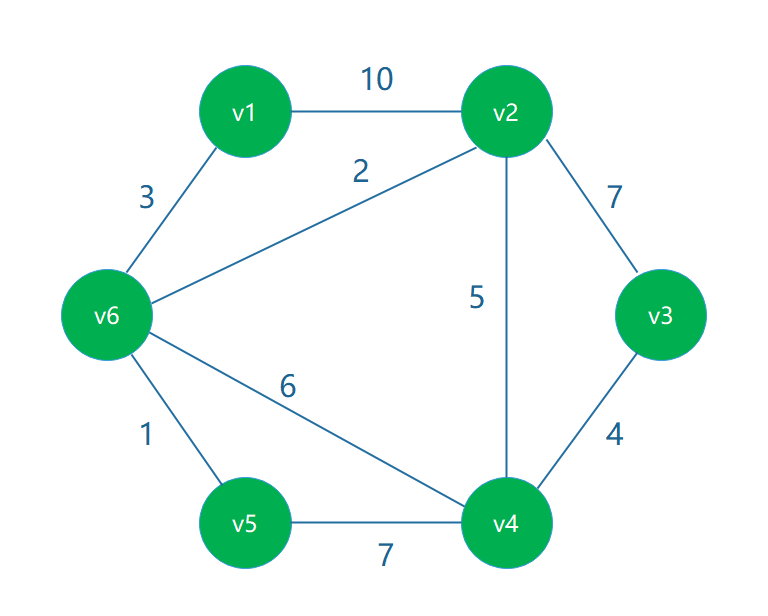
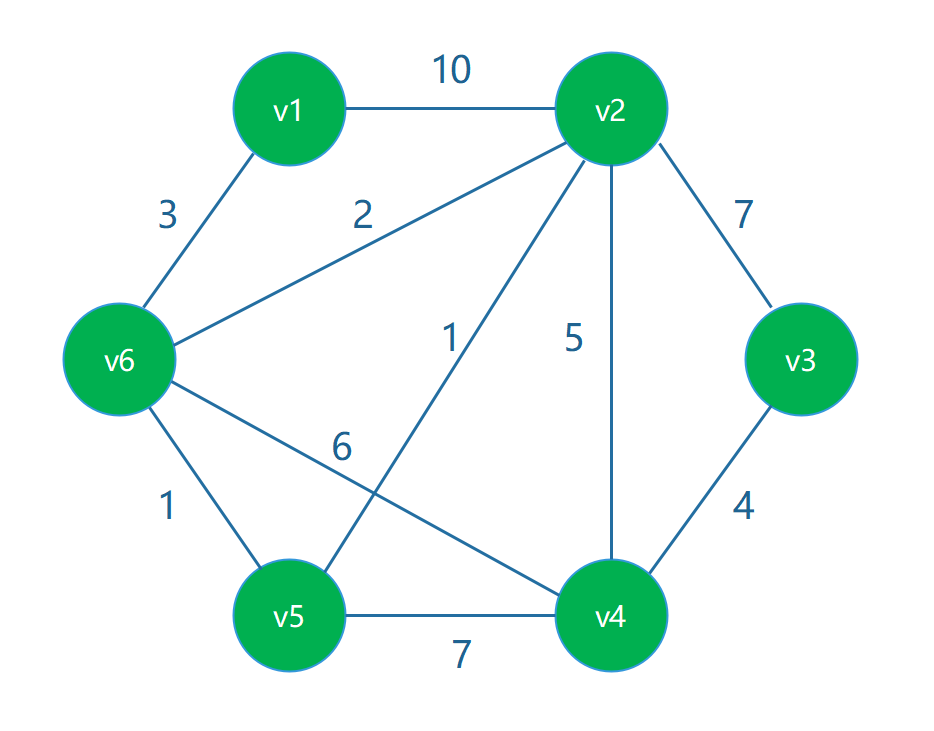
补充包含边和排斥边的策略

diff --git a/dijkstra/src/main/java/com/github/yinzhou/dijkstra/algo/DijkstraAlgorithm.java b/dijkstra/src/main/java/com/github/yinzhou/dijkstra/algo/DijkstraAlgorithm.java
@@ -70,7 +70,7 @@ public class DijkstraAlgorithm {
         completed.add(source);
 
         for (Edge neighbor : graph.getNeighbors(source)) {
-            Node adjacent = graph.getAdjacent(neighbor, source);
+            Node adjacent = graph.getAdjacentNode(neighbor, source);
             if (adjacent == null) {
                 continue;
             }
@@ -94,18 +94,18 @@ public class DijkstraAlgorithm {
             // 下一跳: 计算邻居的最短路径
             int distance = distances.get(current);
             for (Edge neighbor : graph.getNeighbors(current)) {
-                Node adjacent = graph.getAdjacent(neighbor, current);
-                if (completed.contains(adjacent)) {
+                Node node = graph.getAdjacentNode(neighbor, current);
+                if (node == null || completed.contains(node)) {
                     continue;
                 }
 
-                int currentDist = distances.get(adjacent);
+                int currentDist = distances.get(node);
                 int newDist = distance + neighbor.getWeight();
 
                 if (newDist < currentDist) {
-                    distances.put(adjacent, newDist);
-                    predecessors.put(adjacent, current);
-                    inProcess.add(adjacent);
+                    distances.put(node, newDist);
+                    predecessors.put(node, current);
+                    inProcess.add(node);
                 }
             }
         }
@@ -113,15 +113,14 @@ public class DijkstraAlgorithm {
         graph.setSolved(true);
     }
 
+    // 无策略
     public Solution runAlgo() {
         long start = System.currentTimeMillis();
         this.run();
-        List<Node> shortestPath = getDestShortestPath();
-        Integer shortestDist = getDestinationDistance();
-        return new Solution(shortestPath, shortestDist, System.currentTimeMillis() - start);
+        return new Solution(getDestShortestPath(), getDestinationDistance(), System.currentTimeMillis() - start);
     }
 
-    // 包含策略: 使用分段计算方法解决包含策略。
+    // 带包含策略: 使用分段计算方法解决包含策略。
     public Solution runWithIncludePolicy(List<Node> includes, Node dest) {
         List<Node> shortestPath = new ArrayList<>();
         Integer shortestDist = 0;
@@ -138,13 +137,24 @@ public class DijkstraAlgorithm {
         return new Solution(shortestPath, shortestDist, System.currentTimeMillis() - start);
     }
 
-    public Solution runWithIncludeAndExcludePolicy(List<Node> includes, List<Node> excludes, Node dest) {
+    // 带包含排斥策略, 包含要注意排序，外面排好序传入
+    public Solution runWithIncludeAndExcludePolicy(List<Node> includes,
+                                                   List<Edge> includeEdges,
+                                                   List<Node> excludes,
+                                                   List<Edge> excludeEdges,
+                                                   Node dest) {
+        Node originSource = graph.getSource();
         Set<Edge> originExcludeEdges = new HashSet<>();
         for (Node exclude : excludes) {
             Set<Edge> neighbors = graph.getNeighbors(exclude);
             neighbors.forEach(edge -> edge.setWeight(BIG_NUMBER));
             originExcludeEdges.addAll(neighbors);
         }
+        includeEdges.forEach(edge -> edge.setWeight(0));
+        originExcludeEdges.addAll(includeEdges);
+        excludeEdges.forEach(edge -> edge.setWeight(BIG_NUMBER));
+        originExcludeEdges.addAll(excludeEdges);
+
         List<Node> shortestPath = new ArrayList<>();
         Integer shortestDist = 0;
         Node preInclude = null;
@@ -157,6 +167,8 @@ public class DijkstraAlgorithm {
         }
         // 计算最后一段
         shortestDist += calculateSegment(dest, preInclude, shortestPath, originExcludeEdges);
+        // 还原源节点(非必要)
+        graph.setSource(originSource);
         return new Solution(shortestPath, shortestDist, System.currentTimeMillis() - start);
     }
 
@@ -167,7 +179,7 @@ public class DijkstraAlgorithm {
         List<Node> needExcludes = shortestPath.stream()
             .filter(exclude -> !Objects.equals(exclude, graph.getSource()))
             .collect(Collectors.toList());
-        runWithExcludePolicy(needExcludes, dest, excludeEdges);
+        runWithExcludePolicy(needExcludes, excludeEdges);
         // 拼接路径
         List<Node> currentSegmentSPath = getDestShortestPath();
         if (preInclude != null) {
@@ -178,21 +190,20 @@ public class DijkstraAlgorithm {
         return getDestinationDistance();
     }
 
-    // 包含：分段计算。 排斥：将边的权重置为无穷大
-    public void runWithExcludePolicy(List<Node> excludes, Node dest, Set<Edge> excludeEdges) {
+    // 带排斥策略：将边的权重置为无穷大,计算完成后需要还原权重
+    public void runWithExcludePolicy(List<Node> excludeNodes, Set<Edge> excludeEdges) {
         // 将排斥的边权重置为"非常大", 后续统一计算最短路径所以要恢复权重
         Map<Node, Set<Edge>> originalEdges = new HashMap<>();
-        for (Node exclude : excludes) {
+        for (Node exclude : excludeNodes) {
             Set<Edge> neighbors = graph.getNeighbors(exclude);
             originalEdges.put(exclude, neighbors);
             neighbors.forEach(edge -> edge.setWeight(BIG_NUMBER));
         }
-        graph.setDestination(dest);
 
         this.run();
 
         // 恢复排除策略前的边权值, 如果是初始化排斥边则不恢复
-        for (Node exclude : excludes) {
+        for (Node exclude : excludeNodes) {
             Set<Edge> neighbors = originalEdges.get(exclude);
             neighbors.forEach(edge -> {
                 if (!excludeEdges.contains(edge)) {

diff --git a/dijkstra/src/test/java/com/github/yinzhou/dijkstra/algo/DijkstraAlgorithmTest.java b/dijkstra/src/test/java/com/github/yinzhou/dijkstra/algo/DijkstraAlgorithmTest.java
@@ -8,6 +8,8 @@ import com.github.yinzhou.dijkstra.models.Edge;
 import com.github.yinzhou.dijkstra.models.Node;
 import com.github.yinzhou.dijkstra.models.Solution;
 import java.util.Arrays;
+import java.util.Collections;
+import java.util.List;
 import org.junit.Before;
 import org.junit.Test;
 
@@ -30,10 +32,52 @@ public class DijkstraAlgorithmTest {
             Solution solution = dijkstraAlgorithm.runWithIncludeAndExcludePolicy(
                 Arrays.asList(graph.getNodes().stream()
                     .filter(node -> node.getNodeId().equals("v5")).findFirst().get()),
+                Collections.emptyList(),
                 Arrays.asList(graph.getNodes().stream()
                     .filter(node -> node.getNodeId().equals("v4")).findFirst().get()),
+                Collections.emptyList(),
                 graph.getDestination());
             System.out.println(solution);
+
+            Solution solution2 = dijkstraAlgorithm.runWithIncludeAndExcludePolicy(
+                Arrays.asList(graph.getNodes().stream()
+                    .filter(node -> node.getNodeId().equals("v5")).findFirst().get()),
+                Collections.emptyList(),
+                Collections.emptyList(),
+                Arrays.asList(graph.getEdges().stream()
+                    .filter(edge -> edge.getEndpoint1().getNodeId().equals("v6")
+                        && edge.getEndpoint2().getNodeId().equals("v5"))
+                    .findFirst().get()),
+                graph.getDestination());
+            System.out.println(solution2);
+        } catch (IllegalStateException ise) {
+            ise.printStackTrace();
+        }
+    }
+
+    @Test
+    public void testUndirectedGraph2() {
+        Graph graph = new Graph();
+        initUndirectedGraph(graph);
+        graph.setSource(graph.getNodes().stream()
+            .filter(node -> node.getNodeId().equals("v1")).findFirst().get());
+        graph.setDestination(graph.getNodes().stream()
+            .filter(node -> node.getNodeId().equals("v3")).findFirst().get());
+        DijkstraAlgorithm dijkstraAlgorithm = new DijkstraAlgorithm(graph);
+        try {
+            List<Node> includeNodes = Arrays.asList(graph.getNodes().stream()
+                .filter(node -> node.getNodeId().equals("v5")).findFirst().get());
+            List<Edge> excludeEdges = Arrays.asList(graph.getEdges().stream()
+                .filter(edge -> edge.getEndpoint1().getNodeId().equals("v6")
+                    && edge.getEndpoint2().getNodeId().equals("v5"))
+                .findFirst().get());
+            Solution solution2 = dijkstraAlgorithm.runWithIncludeAndExcludePolicy(
+                includeNodes,
+                Collections.emptyList(),
+                Collections.emptyList(),
+                excludeEdges,
+                graph.getDestination());
+            System.out.println(solution2);
         } catch (IllegalStateException ise) {
             ise.printStackTrace();
         }
@@ -72,25 +116,25 @@ public class DijkstraAlgorithmTest {
         graph.addNode(v5);
         graph.addNode(v6);
         Edge edge16 = new Edge(v1, v6);
-        edge16.setWeightFirst(2);
+        edge16.setWeightFirst(3);
         Edge edge12 = new Edge(v1, v2);
-        edge12.setWeightFirst(4);
+        edge12.setWeightFirst(10);
         Edge edge26 = new Edge(v2, v6);
-        edge26.setWeightFirst(3);
+        edge26.setWeightFirst(2);
         Edge edge65 = new Edge(v6, v5);
-        edge65.setWeightFirst(3);
+        edge65.setWeightFirst(1);
         Edge edge25 = new Edge(v2, v5);
         edge25.setWeightFirst(1);
         Edge edge64 = new Edge(v6, v4);
         edge64.setWeightFirst(6);
         Edge edge24 = new Edge(v2, v4);
-        edge24.setWeightFirst(1);
+        edge24.setWeightFirst(5);
         Edge edge54 = new Edge(v5, v4);
-        edge54.setWeightFirst(5);
+        edge54.setWeightFirst(7);
         Edge edge23 = new Edge(v2, v3);
-        edge23.setWeightFirst(6);
+        edge23.setWeightFirst(7);
         Edge edge43 = new Edge(v4, v3);
-        edge43.setWeightFirst(3);
+        edge43.setWeightFirst(4);
         graph.addEdge(edge16);
         graph.addEdge(edge12);
         graph.addEdge(edge26);

diff --git a/dijkstra/src/main/java/com/github/yinzhou/dijkstra/graph/Graph.java b/dijkstra/src/main/java/com/github/yinzhou/dijkstra/graph/Graph.java
@@ -6,6 +6,7 @@ import java.util.ArrayList;
 import java.util.HashSet;
 import java.util.List;
 import java.util.Set;
+import java.util.stream.Collectors;
 import lombok.Data;
 
 @Data
@@ -21,25 +22,21 @@ public class Graph {
 
     public boolean isNodeReachable(Node node) {
         for (Edge edge : edges) {
-            if (node == edge.getEndpoint1() || node == edge.getEndpoint2())
+            if (node == edge.getEndpoint1() || node == edge.getEndpoint2()) {
                 return true;
+            }
         }
         return false;
     }
 
     public Set<Edge> getNeighbors(Node node) {
-        Set<Edge> neighbors = new HashSet<>();
-
-        for (Edge edge : getEdges()) {
-            // 一个图的node指针是唯一的，这里可以使用==，也可以使用equals.
-            if (edge.getEndpoint1() == node || edge.getEndpoint2() == node)
-                neighbors.add(edge);
-        }
-
-        return neighbors;
+        // 一个图的node指针是唯一的，这里可以使用==，也可以使用equals.
+        return getEdges().stream()
+            .filter(edge -> edge.getEndpoint1() == node || edge.getEndpoint2() == node)
+            .collect(Collectors.toSet());
     }
 
-    public Node getAdjacent(Edge edge, Node node) {
+    public Node getAdjacentNode(Edge edge, Node node) {
         if (edge.getEndpoint1() != node && edge.getEndpoint2() != node) {
             return null;
         }
@@ -67,6 +64,7 @@ public class Graph {
         edges.add(newEdge);
     }
 
+    @SuppressWarnings("unused")
     public void deleteNode(Node node) {
         List<Edge> delete = new ArrayList<>();
         for (Edge edge : edges) {

diff --git a/dijkstra/src/main/java/com/github/yinzhou/dijkstra/graph/DirectedGraph.java b/dijkstra/src/main/java/com/github/yinzhou/dijkstra/graph/DirectedGraph.java
@@ -4,27 +4,24 @@ import com.github.yinzhou.dijkstra.models.Edge;
 import com.github.yinzhou.dijkstra.models.Node;
 import java.util.HashSet;
 import java.util.Set;
+import java.util.stream.Collectors;
 import lombok.Data;
 
 
-@Data
 public class DirectedGraph extends Graph {
 
     @Override
     public Set<Edge> getNeighbors(Node node) {
-        Set<Edge> neighbors = new HashSet<>();
-
-        for (Edge edge : getEdges()) {
-            if (edge.getEndpoint1() == node)
-                neighbors.add(edge);
-        }
-
-        return neighbors;
+        return getEdges().stream()
+            .filter(edge -> edge.getEndpoint1() == node)
+            .collect(Collectors.toSet());
     }
 
     @Override
-    public Node getAdjacent(Edge edge, Node node) {
-        assert edge.getEndpoint1() == node;
+    public Node getAdjacentNode(Edge edge, Node node) {
+        if (edge.getEndpoint1() != node) {
+            return null;
+        }
         return edge.getEndpoint2();
     }
 }
